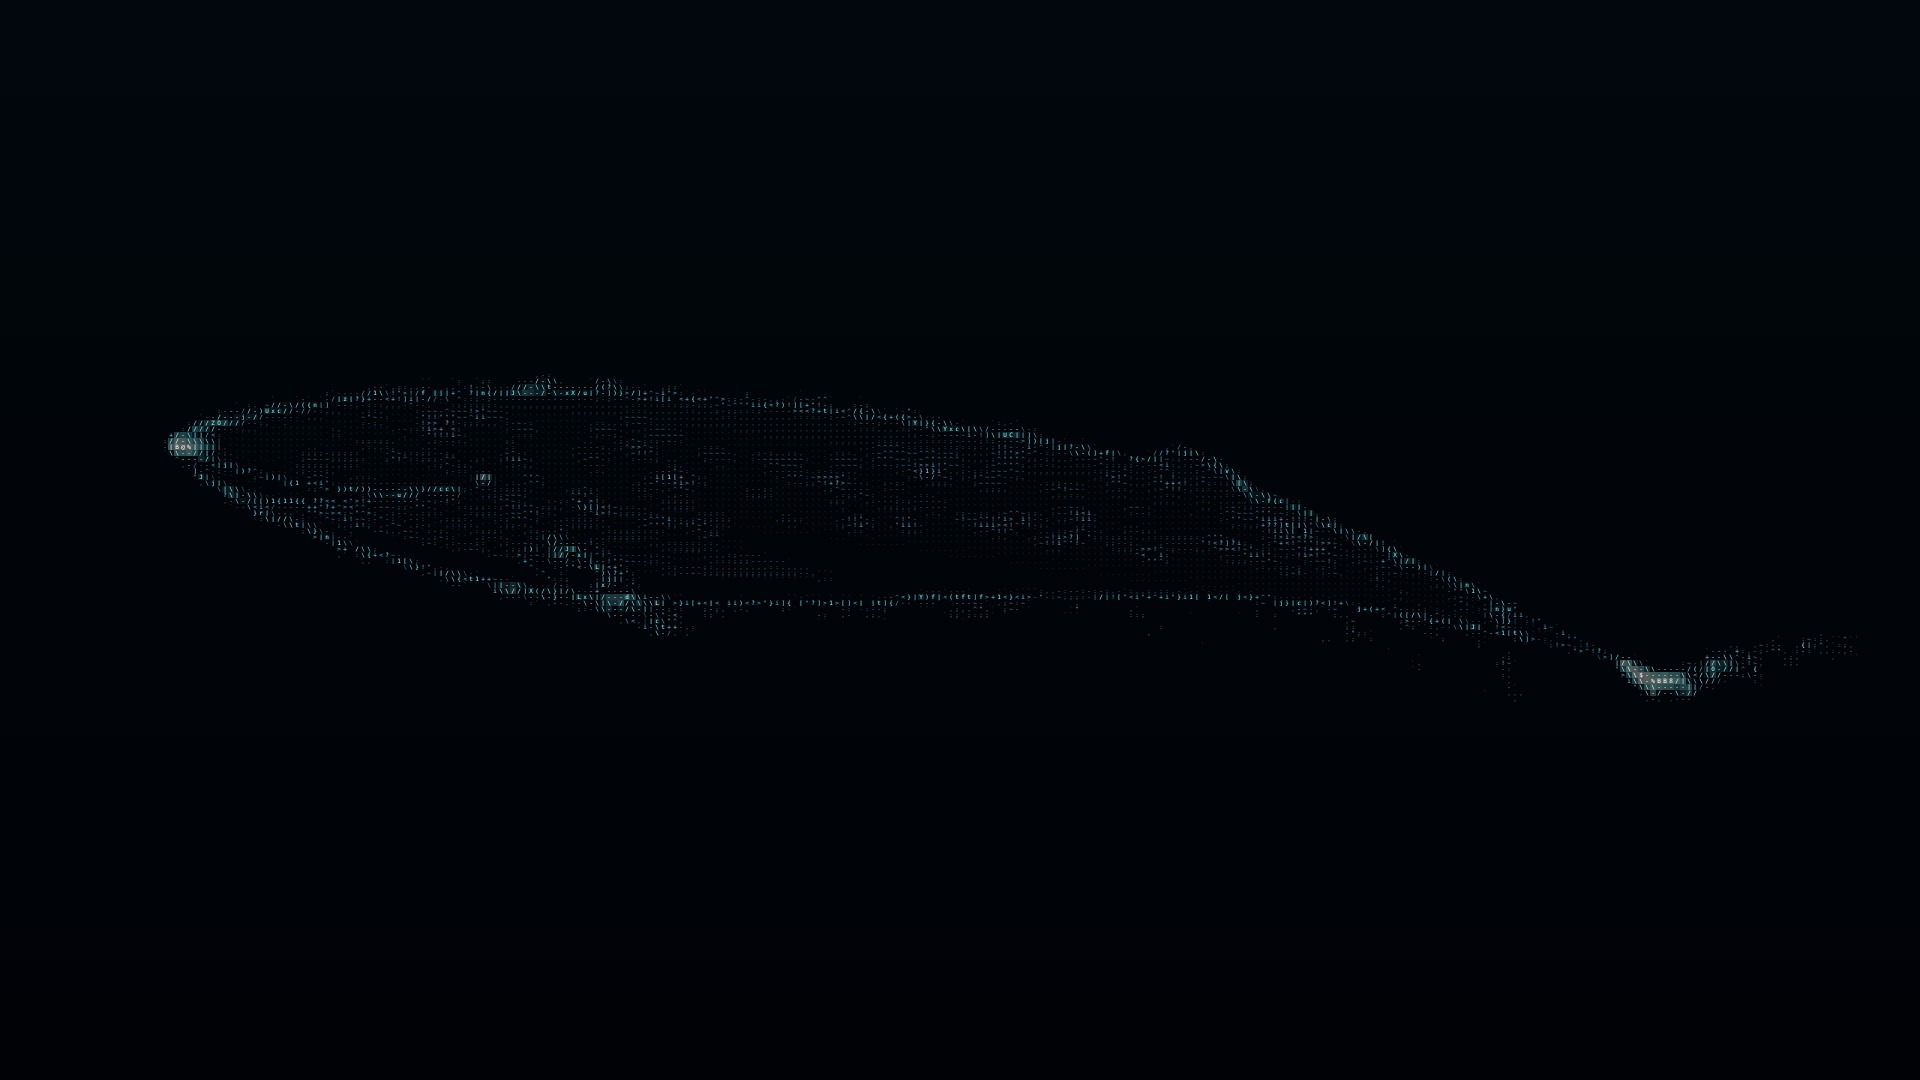
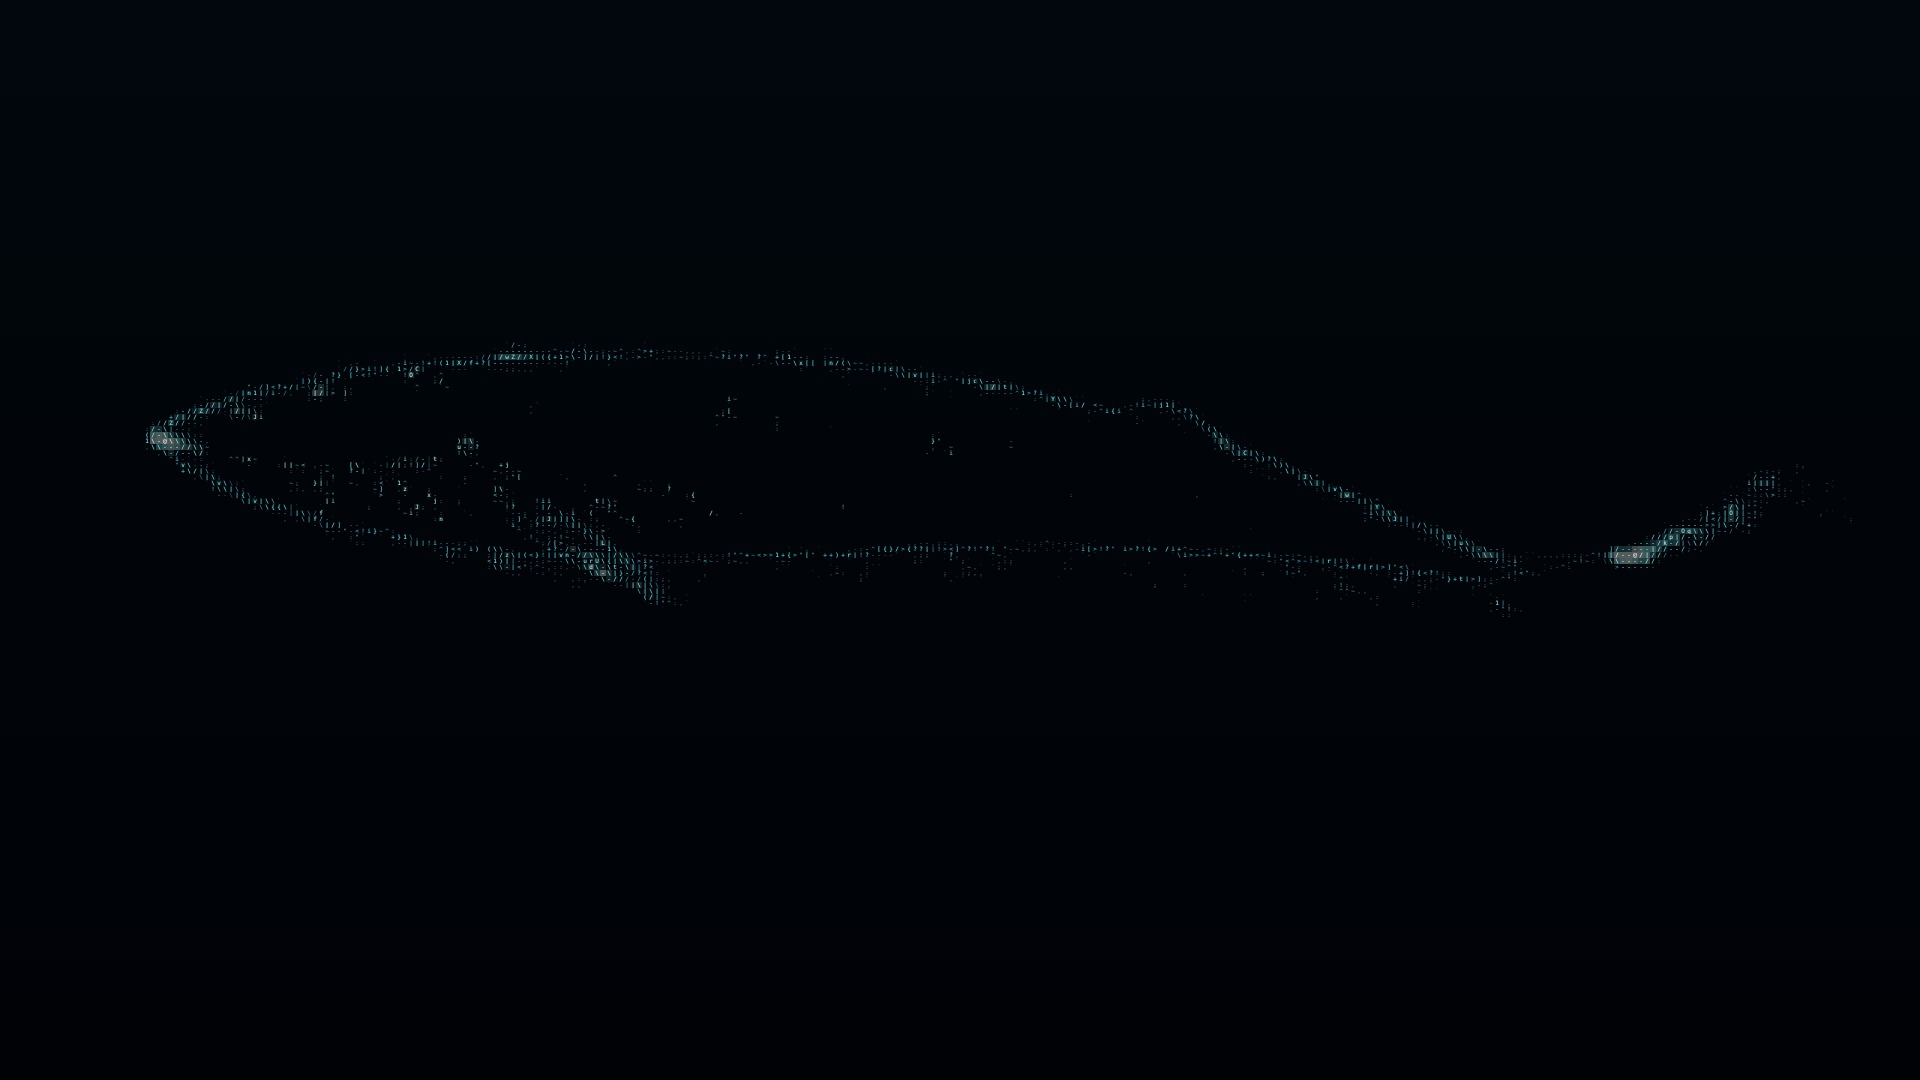
Leviathan: keep the body dark, hint at it with lights on the skin
The dim fill, mottling and drawn lines are gone. Instead small glowing
creatures living on the skin twinkle in lines along the mouth and the
throat grooves, in a ring round the eye, and in clusters on the head,
back and flipper, moving with the body. In glyphs they are drawn a
little larger so each one becomes a character.

Claude-Session: https://claude.ai/code/session_017EU3k2rtRtFcwj5yXYgen8

diff --git a/live/leviathan.js b/live/leviathan.js
@@ -2,21 +2,23 @@
 // The dark is complete. Now and then a whale comes through it, drawn in the light of the plankton
 // flaring where water slides along its skin: the long pointed head, the flipper, the slender back with
 // its small fin set far behind, and the flukes, whose slow strokes shed swirls of light into a wake
-// that hangs in the water after it has gone. That light falls faintly on the body itself, on the line
-// of the mouth, the eye, the long grooves of the throat and the mottled flank. Then the dark comes
-// back. On a phone the whale dives or rises through the picture instead of crossing it.
+// that hangs in the water after it has gone. The body itself stays dark; only the small glowing
+// creatures living on its skin hint at it, twinkling in lines along the mouth and the grooves of the
+// throat, in a ring round the eye, in clusters on the head and the flipper. Then the dark comes back. On a phone the whale dives or rises through the picture instead of crossing it.
 // Moving the pointer stirs the plankton.
 //
 // The swimming follows how whales move: the flukes beat up and down; a wave runs back along the body,
 // growing towards the tail; the flukes trail the tail stock's angle; the head nods against the stroke;
 // each stroke heaves the body and gives a little surge of speed; and the path wanders slowly.
 // Rendered as ASCII by default (?ascii=0 for the plain version, ?res=<glyph rows>).
-function createLeviathan({ w, h, rng }) {
+function createLeviathan({ w, h, rng, params }) {
   const { noise2 } = makeNoise(rng);
   const u = Math.min(w, h);
   const portrait = h > w;
   const TAU = Math.PI * 2;
   const lw = (k) => Math.max(1, u * k);
+  // In glyphs the scene is sampled about three pixels to a character: small lights must fill a cell
+  const glyphs = params.get('ascii') !== '0';
   let now = 0;
 
   // ---------- the whale, in body units: s from the tip of the snout (0) back to the fluke notch (1), y dorsal ----------
@@ -304,69 +306,57 @@ function createLeviathan({ w, h, rng }) {
     ctx.globalAlpha = 1;
   }
 
-  // Spots of paler skin on the flank, fixed for the life of the program (body units)
-  const MOTTLE = Array.from({ length: 160 }, () => ({ s: 0.1 + rng() * 0.78, f: rng() * 1.7 - 0.7, r: 0.0025 + rng() * 0.005 }));
-  // The body as the plankton's light shows it: a dim fill, darker below, the mottled flank, the line of
-  // the mouth sweeping up to the eye, and the long grooves of the throat running back to the navel
-  function drawBody(ctx, t) {
-    const line = (pts) => {
-      ctx.beginPath();
-      pts.forEach(([x, y], i) => (i ? ctx.lineTo(x, y) : ctx.moveTo(x, y)));
-      ctx.stroke();
-    };
-    const at = (s, y) => toWorld(s, bend(s, t) + y);
-    ctx.save();
-    bodyPath(ctx, t);
-    ctx.clip();
-    const top = edge(0.4, 1, t), bot = edge(0.4, -1, t);
-    const g = ctx.createLinearGradient(top[0], top[1], bot[0], bot[1]);
-    g.addColorStop(0, 'rgba(70,130,160,0.2)');
-    g.addColorStop(0.6, 'rgba(40,90,120,0.1)');
-    g.addColorStop(1, 'rgba(20,50,70,0.03)');
-    ctx.fillStyle = g;
-    ctx.fillRect(0, 0, w, h);
-    ctx.fillStyle = 'rgba(150,210,230,0.13)';
-    for (const m of MOTTLE) {
-      const [tp, bt] = profile(m.s);
-      const [x, y] = at(m.s, m.f > 0 ? m.f * tp * 0.8 : m.f * bt * 0.5);
-      ctx.beginPath();
-      ctx.ellipse(x, y, m.r * whale.L * 2.2, m.r * whale.L, Math.atan2(F.f[1], F.f[0]), 0, TAU);
-      ctx.fill();
+  // Small glowing creatures living on the skin, the only sign of the body in the dark. Each sits at a
+  // fixed place on the whale (body units) and twinkles slowly on its own.
+  const riders = [];
+  const rider = (place, a) => riders.push({ place, a, p: rng() * TAU, v: 0.4 + rng() * 0.9 });
+  // Along the mouth, from the tip of the snout back to below the eye
+  for (let i = 0; i < 26; i++) {
+    const s = 0.01 + (i / 25) * 0.2 + (rng() - 0.5) * 0.006;
+    if (rng() < 0.8) rider({ s, y: -0.004 - 0.016 * Math.sin((s / 0.214) * Math.PI * 0.85) }, 0.55 + rng() * 0.35);
+  }
+  // In the long grooves of the throat, sparse, fading towards the navel
+  for (let k = 0; k < 8; k++) {
+    const s0 = 0.04 + k * 0.012, s1 = 0.48 - k * 0.018, depth = 0.25 + k * 0.08;
+    for (let i = 0; i < 14; i++) {
+      const s = s0 + rng() * (s1 - s0);
+      if (rng() < 0.35 + 0.5 * (1 - (s - s0) / (s1 - s0))) rider({ s, groove: depth, s0 }, 0.3 + rng() * 0.35);
     }
-    ctx.restore();
-    ctx.lineCap = 'round';
-    ctx.strokeStyle = 'rgb(110,215,240)';
-    // The mouth, from the tip back, curving down and up again to just below the eye
-    ctx.lineWidth = lw(0.003);
-    ctx.globalAlpha = 0.8;
-    const mouth = [];
-    for (let i = 0; i <= 20; i++) {
-      const s = 0.004 + (i / 20) * 0.21;
-      mouth.push(at(s, -0.004 - 0.016 * Math.sin((s / 0.214) * Math.PI * 0.85)));
+  }
+  // A ring round the eye
+  for (let i = 0; i < 7; i++) {
+    const a = (i / 7) * TAU;
+    rider({ s: 0.232 + Math.cos(a) * 0.006, y: -0.001 + Math.sin(a) * 0.0045 }, 0.7);
+  }
+  // Clusters on the head (behind the blowhole, along the rostrum) and scattered over the back
+  for (const [cs, cy, n] of [[0.07, 0.6, 7], [0.13, 0.8, 9], [0.2, 0.85, 6], [0.42, 0.5, 5], [0.58, 0.3, 4]]) {
+    for (let i = 0; i < n; i++) rider({ s: cs + (rng() - 0.5) * 0.03, f: cy + (rng() - 0.5) * 0.3 }, 0.35 + rng() * 0.4);
+  }
+  for (let i = 0; i < 22; i++) rider({ s: 0.25 + rng() * 0.6, f: rng() * 1.6 - 0.6 }, 0.15 + rng() * 0.25);
+  // Along the leading edge of the flipper and on its tip
+  for (let i = 0; i < 12; i++) rider({ flip: [0.01 + rng() * 0.115, -0.012 + rng() * 0.008] }, 0.4 + rng() * 0.4);
+
+  function riderAt(r, t) {
+    const q = r.place;
+    if (q.flip) return flipper(t)(q.flip[0], q.flip[1]);
+    let y;
+    if (q.groove !== undefined) y = -profile(q.s)[1] * (1 - q.groove * Math.sin(Math.min(1, (q.s - q.s0) / 0.06) * Math.PI / 2));
+    else if (q.f !== undefined) y = q.f > 0 ? q.f * profile(q.s)[0] : q.f * profile(q.s)[1];
+    else y = q.y;
+    return toWorld(q.s, bend(q.s, t) + y);
+  }
+  function drawRiders(ctx, t) {
+    const dot = glyphs ? 2.6 : lw(0.0022), hs = glyphs ? 0.8 : 0.6;
+    for (const r of riders) {
+      const a = Math.min(1, r.a * (glyphs ? 1.35 : 1)) * (0.45 + 0.55 * Math.max(0, Math.sin(t * r.v + r.p)));
+      if (a < 0.04) continue;
+      const [x, y] = riderAt(r, t);
+      ctx.globalAlpha = a * 0.8;
+      ctx.drawImage(halo, x - HR * hs, y - HR * hs, HR * 2 * hs, HR * 2 * hs);
+      ctx.globalAlpha = a;
+      ctx.fillStyle = 'rgb(190,250,240)';
+      ctx.fillRect(x - dot / 2, y - dot / 2, dot, dot);
     }
-    line(mouth);
-    // The eye
-    const eye = at(0.232, -0.001);
-    ctx.globalAlpha = 1;
-    ctx.fillStyle = 'rgb(170,235,250)';
-    ctx.beginPath();
-    ctx.ellipse(eye[0], eye[1], whale.L * 0.0055, whale.L * 0.0035, Math.atan2(F.f[1], F.f[0]), 0, TAU);
-    ctx.fill();
-    // Throat grooves: long lines from the chin to the navel, following the curve of the belly
-    ctx.lineWidth = lw(0.0022);
-    for (let k = 0; k < 9; k++) {
-      const s0 = 0.035 + k * 0.012, s1 = 0.5 - k * 0.018, depth = 0.25 + k * 0.075;
-      const pts = [];
-      for (let i = 0; i <= 24; i++) {
-        const s = s0 + (i / 24) * (s1 - s0);
-        pts.push(at(s, -profile(s)[1] * (1 - depth * Math.sin(Math.min(1, (s - s0) / 0.06) * Math.PI / 2))));
-      }
-      ctx.globalAlpha = 0.45 * (1 - k * 0.05);
-      line(pts);
-    }
-    // The blowhole's splash guard
-    ctx.globalAlpha = 0.6;
-    line([at(0.17, profile(0.17)[0] - 0.004), at(0.19, profile(0.19)[0] + 0.002), at(0.205, profile(0.205)[0] - 0.003)]);
     ctx.globalAlpha = 1;
   }
 
@@ -390,9 +380,9 @@ function createLeviathan({ w, h, rng }) {
       ctx.fill();
       ctx.globalCompositeOperation = 'source-over';
     }
-    if (whale) drawBody(ctx, now);
     ctx.globalCompositeOperation = 'lighter';
     if (whale) drawSheath(ctx, now);
+    if (whale) drawRiders(ctx, now);
     const dot = lw(0.0032);
     for (const p of lights) {
       const a = env(p);

diff --git a/README.md b/README.md
@@ -13,7 +13,7 @@ Grouped by theme, the same way the Mac app's menu groups them. Each page names i
 | Wallpaper | Style | What it is | Options |
 | --- | --- | --- | --- |
 | **Abyss** `live/abyss.html` | ASCII | The deep sea, beyond the reach of sunlight. A single glowing jellyfish drifts through the dark, its tentacles trailing the path it swam. Marine snow shows only where its light falls, and now and then something flickers far away. Moving the pointer stirs faint bioluminescence. | `?res=200` finer glyphs · `?ascii=0` plain version |
-| **Leviathan** `live/leviathan.html` | ASCII | A blue whale passing through the deep. The dark is complete; now and then a whale comes through it, drawn in the light of the plankton flaring where water slides along its skin: the long pointed head, the flipper, the slender back with its small fin set far behind, and the flukes, whose slow strokes shed swirls of light into a wake that hangs in the water after it has gone. That light falls faintly on the body itself: the line of the mouth, the eye, the long grooves of the throat, the mottled flank. The swimming follows how whales move: a wave runs back along the body, the flukes trail the tail stock, the head nods against each stroke, the body heaves and surges, the path wanders. On a phone it dives or rises through the picture. Moving the pointer stirs the plankton. | `?res=200` finer glyphs · `?ascii=0` plain version |
+| **Leviathan** `live/leviathan.html` | ASCII | A blue whale passing through the deep. The dark is complete; now and then a whale comes through it, drawn in the light of the plankton flaring where water slides along its skin: the long pointed head, the flipper, the slender back with its small fin set far behind, and the flukes, whose slow strokes shed swirls of light into a wake that hangs in the water after it has gone. The body itself stays dark; only the small glowing creatures living on its skin hint at it, twinkling in lines along the mouth and the grooves of the throat, in a ring round the eye, in clusters on the head and the flipper. The swimming follows how whales move: a wave runs back along the body, the flukes trail the tail stock, the head nods against each stroke, the body heaves and surges, the path wanders. On a phone it dives or rises through the picture. Moving the pointer stirs the plankton. | `?res=200` finer glyphs · `?ascii=0` plain version |
 
 ![Abyss](output/previews/abyss-desktop.jpg)
 ![Leviathan](output/previews/leviathan-desktop.jpg)
